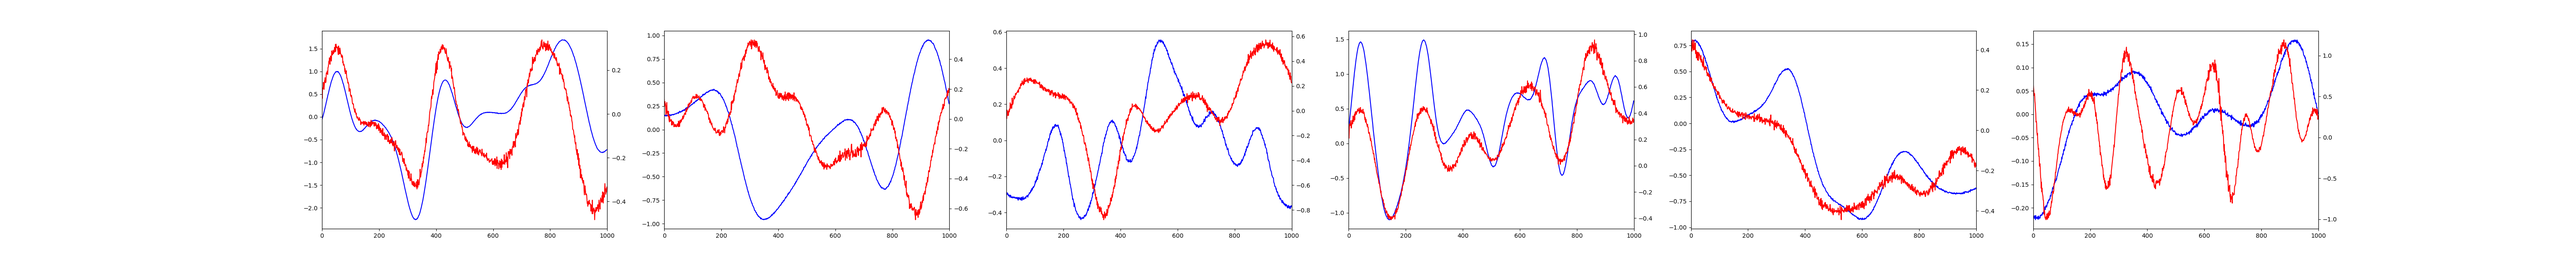
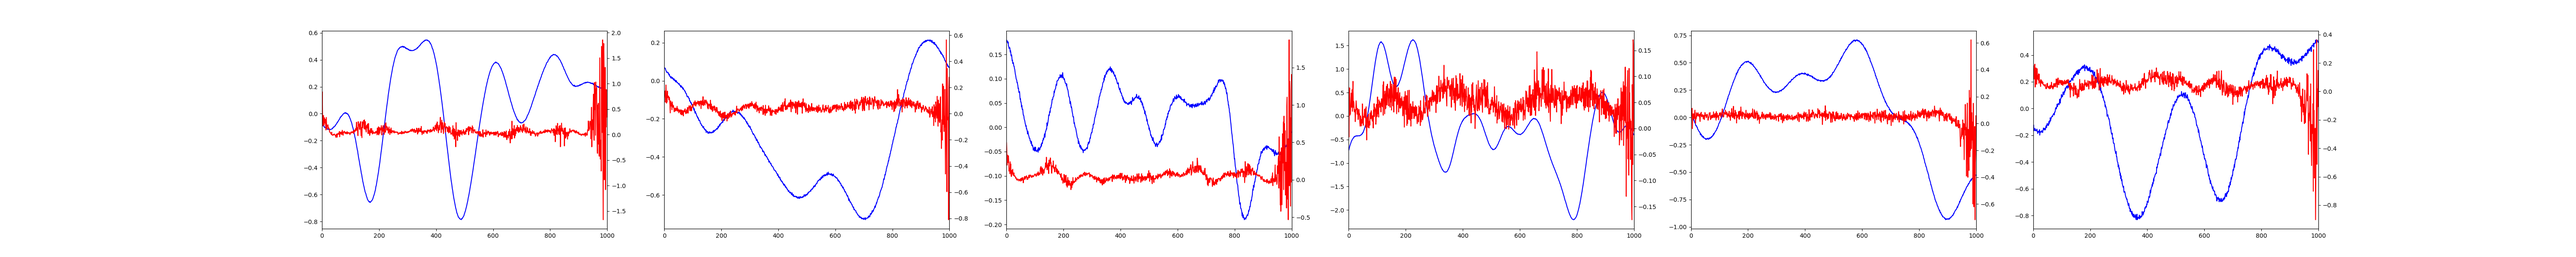
remote plot

diff --git a/train.py b/train.py
@@ -36,16 +36,29 @@ def train(x, z, s, t, tp_mean_fn, tp_kernel_fn, params, args, key):
     minib_size = args.minib_size
     num_epochs = args.num_epochs
     nsamples = (args.num_s_samples, args.num_tau_samples)
-
-    tlr_key, plr_key = jr.split(jr.PRNGKey(args.test_seed))
-    theta_lr = jnp.exp(jr.uniform(tlr_key, minval=jnp.log(3e-4),
-                                  maxval=jnp.log(3e-1)))
-    phi_lr = jnp.exp(jr.uniform(plr_key, minval=jnp.log(3e-4),
-                                maxval=jnp.log(3e-1)))
-
-    #theta_lr = args.theta_learning_rate
-    #phi_lr = args.phi_learning_rate
+    theta_lr = args.theta_learning_rate
+    phi_lr = args.phi_learning_rate
     gt_Q, gt_mixer_params, gt_kernel_params, gt_tau = params
+
+
+
+
+    ###### TEST #######
+
+    #tlr_key, plr_key = jr.split(jr.PRNGKey(args.test_seed))
+    #theta_lr = jnp.exp(jr.uniform(tlr_key, minval=jnp.log(3e-4),
+    #                              maxval=jnp.log(3e-1)))
+    #phi_lr = jnp.exp(jr.uniform(plr_key, minval=jnp.log(3e-4),
+    #                            maxval=jnp.log(3e-1)))
+
+
+    scales_bounds = {k*20: 1.16*0.999**(k-1) for k in range(1, 101)}
+    theta_lr = optax.piecewise_constant_schedule(theta_lr, scales_bounds)
+    phi_lr = optax.piecewise_constant_schedule(phi_lr, scales_bounds)
+    ###################
+
+
+
 
     # initialize generative model params (theta)
     theta_tau, key = rngcall(
@@ -256,7 +269,7 @@ def train(x, z, s, t, tp_mean_fn, tp_kernel_fn, params, args, key):
               "theta lr: {5}\t"
               "phi lr: {6}".format(toc-tic, epoch_avg_elbo, epoch_avg_mcc,
                                    args.data_seed, args.est_seed,
-                                   theta_lr.item(), phi_lr.item()))
+                                   theta_lr, phi_lr))
 
         # save checkpoints
         if not args.eval_only:

diff --git a/main.py b/main.py
@@ -58,9 +58,9 @@ def parse():
                         help="num. of samples from q(s|tau) in elbo")
     parser.add_argument('--num-tau-samples', type=int, default=10,
                         help="num. of samples from q(tau) in elbo")
-    parser.add_argument('--phi-learning-rate', type=float, default=3e-2,
+    parser.add_argument('--phi-learning-rate', type=float, default=1e-4,
                         help="learning rate for variational params")
-    parser.add_argument('--theta-learning-rate', type=float, default=3e-2,
+    parser.add_argument('--theta-learning-rate', type=float, default=1e-4,
                         help="learning rate for model params")
     parser.add_argument('--minib-size', type=int, default=8,
                         help="minibatch size")
